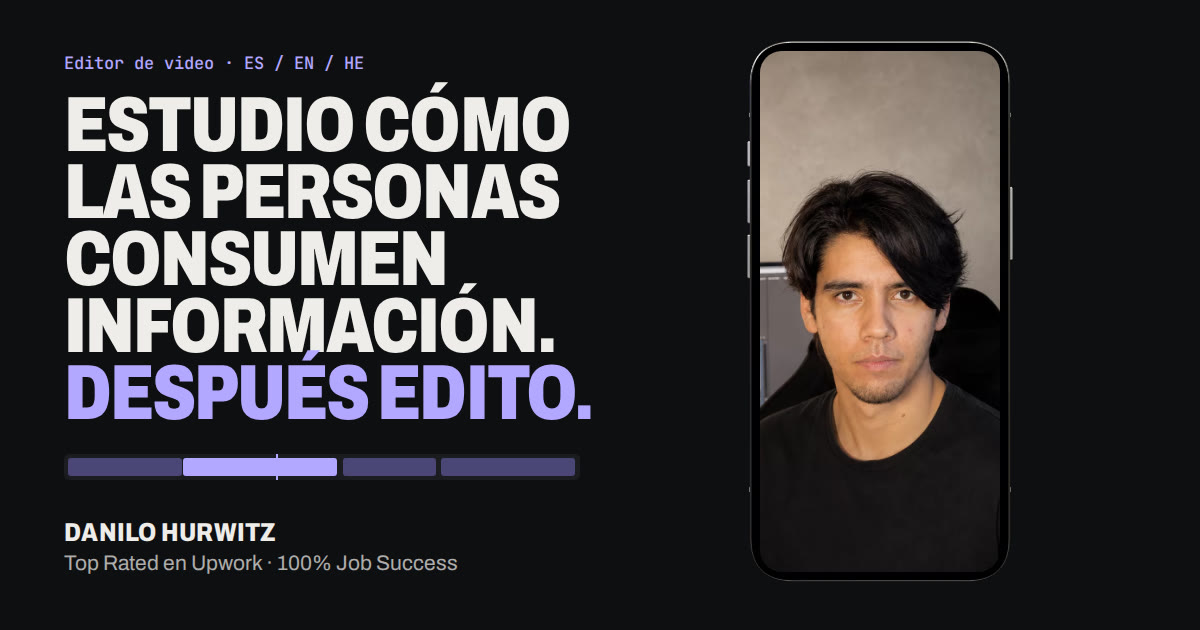
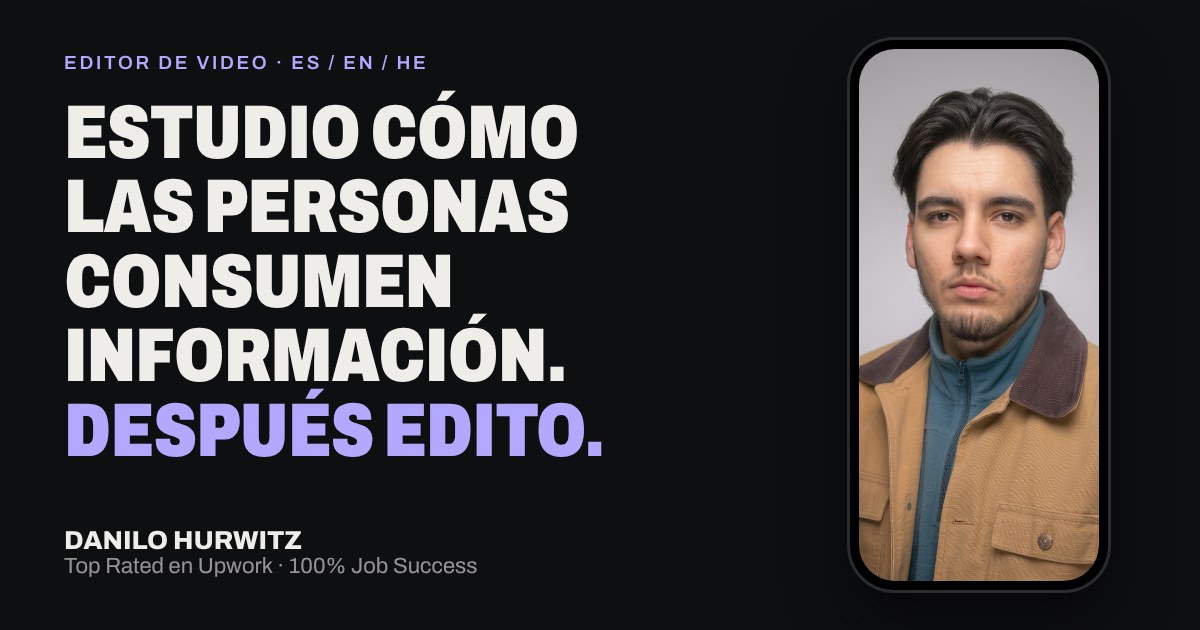
Preview propia para cada página, con la foto nueva
Claude-Session: https://claude.ai/code/session_01DU4y1EvVDrhqb5xUrwY9q2

diff --git a/index.html b/index.html
@@ -9,7 +9,7 @@
 <meta property="og:description" content="Estudio cómo las personas consumen información. Después edito.">
 <meta property="og:type" content="website">
 <meta property="og:url" content="https://danilohurwitz.app/">
-<meta property="og:image" content="https://danilohurwitz.app/assets/og.jpg">
+<meta property="og:image" content="https://danilohurwitz.app/assets/og/home.jpg">
 <meta property="og:image:width" content="1200">
 <meta property="og:image:height" content="630">
 <meta name="twitter:card" content="summary_large_image">
@@ -17,7 +17,7 @@
 <link rel="alternate" hreflang="es" href="https://danilohurwitz.app/">
 <link rel="alternate" hreflang="en" href="https://danilohurwitz.app/en/">
 <link rel="alternate" hreflang="x-default" href="https://danilohurwitz.app/">
-<script type="application/ld+json">{"@context": "https://schema.org", "@graph": [{"@type": "Person", "@id": "https://danilohurwitz.app/#danilo", "name": "Danilo Hurwitz", "url": "https://danilohurwitz.app/", "image": "https://danilohurwitz.app/assets/danilo-photo.webp", "jobTitle": "Editor de video freelance", "description": "Editor de video freelance especializado en Reels, TikToks, anuncios y YouTube para marcas, coaches de fitness y creadores. Subtítulos en español, inglés y hebreo. Top Rated en Upwork con 100% de Job Success.", "knowsAbout": ["Edición de Reels", "Edición de TikToks", "YouTube Shorts", "Edición de anuncios para redes sociales", "Edición de video para fitness", "Edición de videos de YouTube", "Subtitulado", "Color grading", "Adobe Premiere Pro", "Adobe After Effects", "DaVinci Resolve", "CapCut"], "knowsLanguage": ["es", "en", "he"], "address": {"@type": "PostalAddress", "addressLocality": "Mar del Plata", "addressCountry": "AR"}, "email": "ediciones@danilohurwitz.app", "sameAs": ["https://www.upwork.com/freelancers/~0182e74782945244a8", "https://www.linkedin.com/in/danilohurwitz"]}, {"@type": "ProfessionalService", "@id": "https://danilohurwitz.app/#servicio", "name": "Danilo Hurwitz · Edición de video", "url": "https://danilohurwitz.app/", "image": "https://danilohurwitz.app/assets/og.jpg", "founder": {"@id": "https://danilohurwitz.app/#danilo"}, "areaServed": ["ES", "US", "IL", "AR", "MX", "Latin America"], "priceRange": "USD 55–840", "address": {"@type": "PostalAddress", "addressLocality": "Mar del Plata", "addressCountry": "AR"}, "hasOfferCatalog": {"@type": "OfferCatalog", "name": "Servicios de edición de video", "itemListElement": [{"@type": "Offer", "itemOffered": {"@type": "Service", "name": "Edición de Reels, TikToks y Shorts", "url": "https://danilohurwitz.app/editor-de-reels/"}}, {"@type": "Offer", "itemOffered": {"@type": "Service", "name": "Edición de Reels y anuncios para fitness", "url": "https://danilohurwitz.app/editor-de-reels-fitness/"}}, {"@type": "Offer", "itemOffered": {"@type": "Service", "name": "Edición de anuncios en video", "url": "https://danilohurwitz.app/editor-de-anuncios/"}}, {"@type": "Offer", "itemOffered": {"@type": "Service", "name": "Edición de videos de YouTube"}}, {"@type": "Offer", "itemOffered": {"@type": "Service", "name": "Subtítulos y adaptación en español, inglés y hebreo", "url": "https://danilohurwitz.app/en/hebrew-video-editor/"}}]}}, {"@type": "WebSite", "@id": "https://danilohurwitz.app/#web", "url": "https://danilohurwitz.app/", "name": "Danilo Hurwitz · Editor de video", "inLanguage": "es", "publisher": {"@id": "https://danilohurwitz.app/#danilo"}}, {"@type": "FAQPage", "mainEntity": [{"@type": "Question", "name": "¿Quién es Danilo Hurwitz?", "acceptedAnswer": {"@type": "Answer", "text": "Danilo Hurwitz es un editor de video freelance de Mar del Plata, Argentina. Edita Reels, TikToks, anuncios y videos de YouTube para marcas, coaches y creadores, y subtitula en español, inglés y hebreo. Es Top Rated en Upwork con 100% de Job Success Score, 648 horas facturadas y 21 contratos."}}, {"@type": "Question", "name": "¿Editás Reels y anuncios para marcas de fitness?", "acceptedAnswer": {"@type": "Answer", "text": "Sí. Edité el anuncio de Inazio Coach, cuyo perfil pasó de 188K a 238K seguidores entre enero y agosto de 2026, Reels para el gimnasio CAOS Club en España y la intro de YouTube de Aitor Zabaleta Korta, Doctor en Ciencias del Deporte con 276K seguidores."}}, {"@type": "Question", "name": "¿Cuánto cuesta editar un Reel?", "acceptedAnswer": {"@type": "Answer", "text": "Un Reel de hasta 1 minuto con cortes y subtítulos parte de 55–70 USD; un anuncio, de 90–120 USD. Los paquetes mensuales bajan el precio por pieza: 4 Reels por 200 USD, 8 por 380, 12 por 540 y 20 por 840."}}, {"@type": "Question", "name": "¿Cuánto tarda la entrega?", "acceptedAnswer": {"@type": "Answer", "text": "La propuesta llega en menos de 4 horas y la primera versión en 5 a 7 días, o en 24 a 72 horas si es urgente. Las revisiones están incluidas."}}, {"@type": "Question", "name": "¿Trabajás con clientes de otros países?", "acceptedAnswer": {"@type": "Answer", "text": "Sí. Trabajo con clientes de España, Estados Unidos, Israel y Latinoamérica, por Upwork o directo por WhatsApp."}}, {"@type": "Question", "name": "¿Hacés subtítulos en inglés y hebreo?", "acceptedAnswer": {"@type": "Answer", "text": "Sí. Subtitulo y adapto videos entre español, inglés y hebreo, con el hebreo de derecha a izquierda, en archivo SRT/VTT o quemados en el video."}}]}]}</script>
+<script type="application/ld+json">{"@context": "https://schema.org", "@graph": [{"@type": "Person", "@id": "https://danilohurwitz.app/#danilo", "name": "Danilo Hurwitz", "url": "https://danilohurwitz.app/", "image": "https://danilohurwitz.app/assets/danilo-photo.webp", "jobTitle": "Editor de video freelance", "description": "Editor de video freelance especializado en Reels, TikToks, anuncios y YouTube para marcas, coaches de fitness y creadores. Subtítulos en español, inglés y hebreo. Top Rated en Upwork con 100% de Job Success.", "knowsAbout": ["Edición de Reels", "Edición de TikToks", "YouTube Shorts", "Edición de anuncios para redes sociales", "Edición de video para fitness", "Edición de videos de YouTube", "Subtitulado", "Color grading", "Adobe Premiere Pro", "Adobe After Effects", "DaVinci Resolve", "CapCut"], "knowsLanguage": ["es", "en", "he"], "address": {"@type": "PostalAddress", "addressLocality": "Mar del Plata", "addressCountry": "AR"}, "email": "ediciones@danilohurwitz.app", "sameAs": ["https://www.upwork.com/freelancers/~0182e74782945244a8", "https://www.linkedin.com/in/danilohurwitz"]}, {"@type": "ProfessionalService", "@id": "https://danilohurwitz.app/#servicio", "name": "Danilo Hurwitz · Edición de video", "url": "https://danilohurwitz.app/", "image": "https://danilohurwitz.app/assets/og/home.jpg", "founder": {"@id": "https://danilohurwitz.app/#danilo"}, "areaServed": ["ES", "US", "IL", "AR", "MX", "Latin America"], "priceRange": "USD 55–840", "address": {"@type": "PostalAddress", "addressLocality": "Mar del Plata", "addressCountry": "AR"}, "hasOfferCatalog": {"@type": "OfferCatalog", "name": "Servicios de edición de video", "itemListElement": [{"@type": "Offer", "itemOffered": {"@type": "Service", "name": "Edición de Reels, TikToks y Shorts", "url": "https://danilohurwitz.app/editor-de-reels/"}}, {"@type": "Offer", "itemOffered": {"@type": "Service", "name": "Edición de Reels y anuncios para fitness", "url": "https://danilohurwitz.app/editor-de-reels-fitness/"}}, {"@type": "Offer", "itemOffered": {"@type": "Service", "name": "Edición de anuncios en video", "url": "https://danilohurwitz.app/editor-de-anuncios/"}}, {"@type": "Offer", "itemOffered": {"@type": "Service", "name": "Edición de videos de YouTube"}}, {"@type": "Offer", "itemOffered": {"@type": "Service", "name": "Subtítulos y adaptación en español, inglés y hebreo", "url": "https://danilohurwitz.app/en/hebrew-video-editor/"}}]}}, {"@type": "WebSite", "@id": "https://danilohurwitz.app/#web", "url": "https://danilohurwitz.app/", "name": "Danilo Hurwitz · Editor de video", "inLanguage": "es", "publisher": {"@id": "https://danilohurwitz.app/#danilo"}}, {"@type": "FAQPage", "mainEntity": [{"@type": "Question", "name": "¿Quién es Danilo Hurwitz?", "acceptedAnswer": {"@type": "Answer", "text": "Danilo Hurwitz es un editor de video freelance de Mar del Plata, Argentina. Edita Reels, TikToks, anuncios y videos de YouTube para marcas, coaches y creadores, y subtitula en español, inglés y hebreo. Es Top Rated en Upwork con 100% de Job Success Score, 648 horas facturadas y 21 contratos."}}, {"@type": "Question", "name": "¿Editás Reels y anuncios para marcas de fitness?", "acceptedAnswer": {"@type": "Answer", "text": "Sí. Edité el anuncio de Inazio Coach, cuyo perfil pasó de 188K a 238K seguidores entre enero y agosto de 2026, Reels para el gimnasio CAOS Club en España y la intro de YouTube de Aitor Zabaleta Korta, Doctor en Ciencias del Deporte con 276K seguidores."}}, {"@type": "Question", "name": "¿Cuánto cuesta editar un Reel?", "acceptedAnswer": {"@type": "Answer", "text": "Un Reel de hasta 1 minuto con cortes y subtítulos parte de 55–70 USD; un anuncio, de 90–120 USD. Los paquetes mensuales bajan el precio por pieza: 4 Reels por 200 USD, 8 por 380, 12 por 540 y 20 por 840."}}, {"@type": "Question", "name": "¿Cuánto tarda la entrega?", "acceptedAnswer": {"@type": "Answer", "text": "La propuesta llega en menos de 4 horas y la primera versión en 5 a 7 días, o en 24 a 72 horas si es urgente. Las revisiones están incluidas."}}, {"@type": "Question", "name": "¿Trabajás con clientes de otros países?", "acceptedAnswer": {"@type": "Answer", "text": "Sí. Trabajo con clientes de España, Estados Unidos, Israel y Latinoamérica, por Upwork o directo por WhatsApp."}}, {"@type": "Question", "name": "¿Hacés subtítulos en inglés y hebreo?", "acceptedAnswer": {"@type": "Answer", "text": "Sí. Subtitulo y adapto videos entre español, inglés y hebreo, con el hebreo de derecha a izquierda, en archivo SRT/VTT o quemados en el video."}}]}]}</script>
 <meta name="theme-color" content="#0e0f11">
 <link rel="icon" href="assets/favicon.svg" type="image/svg+xml">
 <link rel="preconnect" href="https://fonts.googleapis.com">

diff --git a/editor-de-anuncios/index.html b/editor-de-anuncios/index.html
@@ -10,7 +10,9 @@
 <meta property="og:description" content="Editor de anuncios en video para Meta Ads (Instagram y Facebook), TikTok Ads y YouTube, para empresas, marcas y coaches de fitness. Hook, mensaje y CTA pensados para performance, en 9:16, 4:5, 1:1 y 16:9. Top Rated en Upwork, 100% Job Success.">
 <meta property="og:type" content="website">
 <meta property="og:url" content="https://danilohurwitz.app/editor-de-anuncios/">
-<meta property="og:image" content="https://danilohurwitz.app/assets/og.jpg">
+<meta property="og:image" content="https://danilohurwitz.app/assets/og/anuncios.jpg">
+<meta property="og:image:width" content="1200">
+<meta property="og:image:height" content="630">
 <meta name="twitter:card" content="summary_large_image">
 <meta name="theme-color" content="#0e0f11">
 <link rel="icon" href="/assets/favicon.svg" type="image/svg+xml">

diff --git a/en/hebrew-video-editor/index.html b/en/hebrew-video-editor/index.html
@@ -10,7 +10,9 @@
 <meta property="og:description" content="Video editor for Hebrew content: right-to-left subtitles, SRT/VTT or burned in, and video adaptation between Hebrew, English and Spanish. Top Rated on Upwork, 5-star Hebrew tutorial adaptation reviews.">
 <meta property="og:type" content="website">
 <meta property="og:url" content="https://danilohurwitz.app/en/hebrew-video-editor/">
-<meta property="og:image" content="https://danilohurwitz.app/assets/og.jpg">
+<meta property="og:image" content="https://danilohurwitz.app/assets/og/en-hebrew.jpg">
+<meta property="og:image:width" content="1200">
+<meta property="og:image:height" content="630">
 <meta name="twitter:card" content="summary_large_image">
 <meta name="theme-color" content="#0e0f11">
 <link rel="icon" href="/assets/favicon.svg" type="image/svg+xml">

diff --git a/editor-de-reels/index.html b/editor-de-reels/index.html
@@ -10,7 +10,9 @@
 <meta property="og:description" content="Editor de Reels, TikToks y YouTube Shorts para marcas, coaches y creadores. Hook en los primeros 2 segundos, subtítulos dinámicos y ritmo pensado para retención. Top Rated en Upwork, 100% Job Success.">
 <meta property="og:type" content="website">
 <meta property="og:url" content="https://danilohurwitz.app/editor-de-reels/">
-<meta property="og:image" content="https://danilohurwitz.app/assets/og.jpg">
+<meta property="og:image" content="https://danilohurwitz.app/assets/og/reels.jpg">
+<meta property="og:image:width" content="1200">
+<meta property="og:image:height" content="630">
 <meta name="twitter:card" content="summary_large_image">
 <meta name="theme-color" content="#0e0f11">
 <link rel="icon" href="/assets/favicon.svg" type="image/svg+xml">

diff --git a/editor-de-reels-fitness/index.html b/editor-de-reels-fitness/index.html
@@ -12,7 +12,9 @@
 <meta property="og:description" content="Editor de Reels y anuncios para coaches de fitness, gimnasios y profesionales del deporte. Trabajé con Inazio Coach, CAOS Club y Aitor Zabaleta Korta. Top Rated en Upwork, 100% Job Success.">
 <meta property="og:type" content="website">
 <meta property="og:url" content="https://danilohurwitz.app/editor-de-reels-fitness/">
-<meta property="og:image" content="https://danilohurwitz.app/assets/og.jpg">
+<meta property="og:image" content="https://danilohurwitz.app/assets/og/fitness.jpg">
+<meta property="og:image:width" content="1200">
+<meta property="og:image:height" content="630">
 <meta name="twitter:card" content="summary_large_image">
 <meta name="theme-color" content="#0e0f11">
 <link rel="icon" href="/assets/favicon.svg" type="image/svg+xml">

diff --git a/en/fitness-video-editor/index.html b/en/fitness-video-editor/index.html
@@ -12,7 +12,9 @@
 <meta property="og:description" content="Video editor for fitness coaches, gyms and sports creators: Reels, TikToks and ads that stop the scroll. Worked with Inazio Coach, CAOS Club and Aitor Zabaleta Korta. Top Rated on Upwork.">
 <meta property="og:type" content="website">
 <meta property="og:url" content="https://danilohurwitz.app/en/fitness-video-editor/">
-<meta property="og:image" content="https://danilohurwitz.app/assets/og.jpg">
+<meta property="og:image" content="https://danilohurwitz.app/assets/og/en-fitness.jpg">
+<meta property="og:image:width" content="1200">
+<meta property="og:image:height" content="630">
 <meta name="twitter:card" content="summary_large_image">
 <meta name="theme-color" content="#0e0f11">
 <link rel="icon" href="/assets/favicon.svg" type="image/svg+xml">

diff --git a/en/index.html b/en/index.html
@@ -12,7 +12,9 @@
 <meta property="og:description" content="Freelance video editor for Reels, TikToks, Shorts, ads and YouTube. Top Rated on Upwork with a 100% Job Success Score. Subtitles and adaptation between English, Spanish and Hebrew.">
 <meta property="og:type" content="website">
 <meta property="og:url" content="https://danilohurwitz.app/en/">
-<meta property="og:image" content="https://danilohurwitz.app/assets/og.jpg">
+<meta property="og:image" content="https://danilohurwitz.app/assets/og/en.jpg">
+<meta property="og:image:width" content="1200">
+<meta property="og:image:height" content="630">
 <meta name="twitter:card" content="summary_large_image">
 <meta name="theme-color" content="#0e0f11">
 <link rel="icon" href="/assets/favicon.svg" type="image/svg+xml">

diff --git a/guia-de-grabacion/index.html b/guia-de-grabacion/index.html
@@ -10,7 +10,9 @@
 <meta property="og:description" content="Guía gratuita en PDF para grabar videos con el celular y que lleguen listos para editar.">
 <meta property="og:type" content="website">
 <meta property="og:url" content="https://danilohurwitz.app/guia-de-grabacion/">
-<meta property="og:image" content="https://danilohurwitz.app/assets/og.jpg">
+<meta property="og:image" content="https://danilohurwitz.app/assets/og/guia.jpg">
+<meta property="og:image:width" content="1200">
+<meta property="og:image:height" content="630">
 <meta name="twitter:card" content="summary_large_image">
 <meta name="theme-color" content="#0e0f11">
 <link rel="icon" href="/assets/favicon.svg" type="image/svg+xml">
